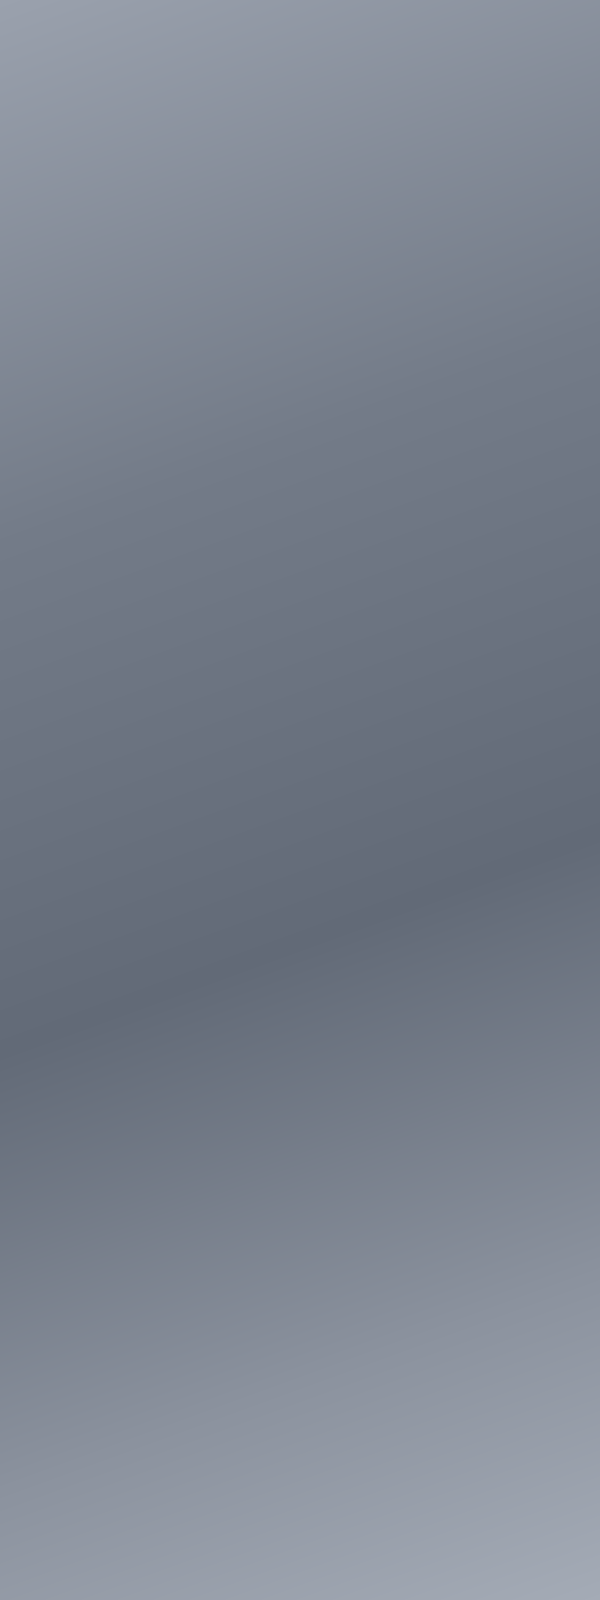
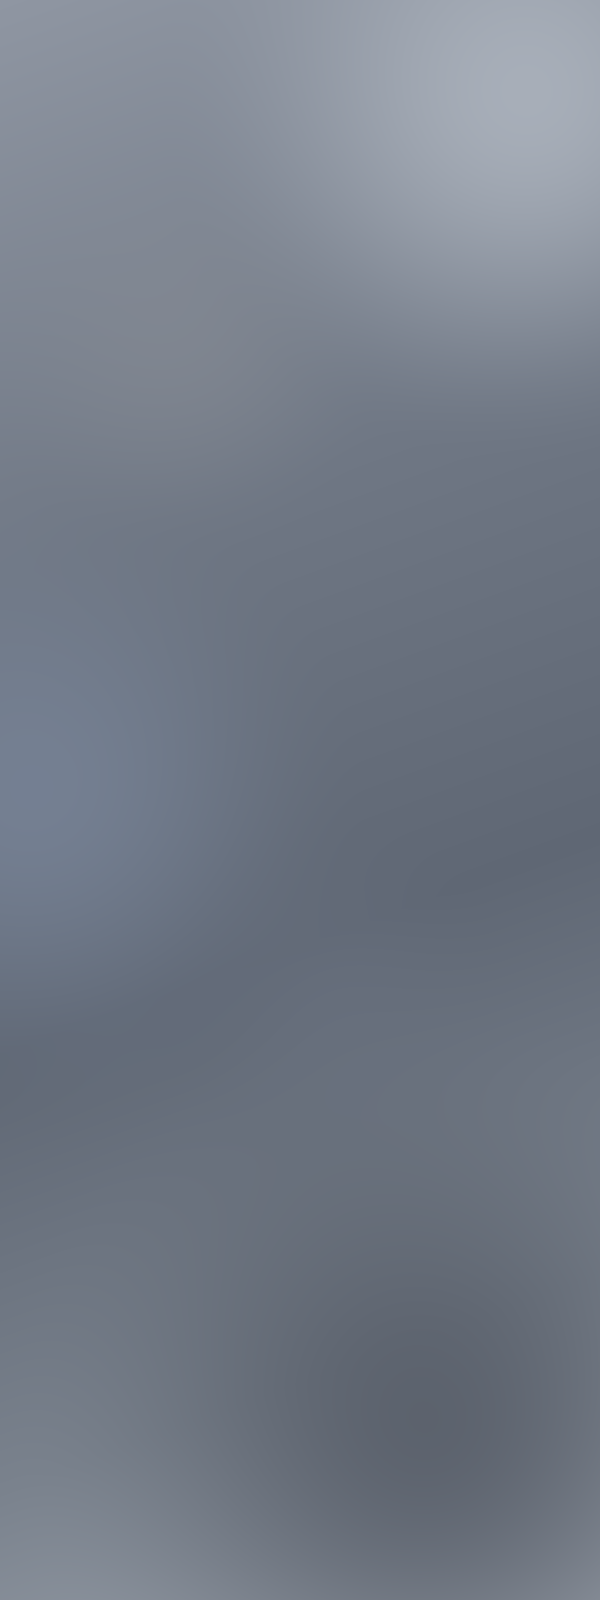
Graphite backdrop as a layered mesh gradient (linear base + radial light/shadow pools)

Changed region(s): [[0.21, 0.75, 1.0, 1.0], [0.69, 0.0, 1.0, 0.1875]]

diff --git a/make_gradient.py b/make_gradient.py
@@ -3,6 +3,7 @@
 images because Outlook and Gmail Android do not render CSS gradients.
 
   python3 make_gradient.py assets/launch-coral.png 600 1600 160 "#fdbb8f 0%,#f86726 30%,#eabf7c 58%,#ffe2d8 82%,#d5ddda 100%"
+  python3 make_gradient.py mesh assets/launch-graphite.png 600 1600 160 "<stops>" "x,y,r,#hex,strength;..."
 """
 import math, struct, sys, zlib
 
@@ -48,7 +49,52 @@ def gradient_png(path, width, height, angle_deg, spec):
         fh.write(png_bytes(width, height, rows))
 
 
+def parse_hex(col):
+    c = col.lstrip("#")
+    return tuple(int(c[i:i + 2], 16) for i in (0, 2, 4))
+
+
+def mesh_png(path, width, height, angle_deg, spec, blobs):
+    """Linear base gradient plus soft radial pools of colour (a 'mesh' look).
+    blobs: "x,y,r,#hex,strength;..." with x/y/r relative to the width (y relative to the height),
+    strength 0..1; each pool fades with a smoothstep falloff."""
+    stops = parse_stops(spec)
+    a = math.radians(angle_deg)
+    dx, dy = math.sin(a), -math.cos(a)
+    length = abs(width * math.sin(a)) + abs(height * math.cos(a))
+    cx, cy = width / 2, height / 2
+    pools = []
+    for b in blobs.split(";"):
+        bx, by, br, col, st = b.split(",")
+        pools.append((float(bx) * width, float(by) * height, float(br) * width, parse_hex(col), float(st)))
+    rows = []
+    for y in range(height):
+        row = bytearray()
+        for x in range(width):
+            t = min(1.0, max(0.0, ((x - cx) * dx + (y - cy) * dy) / length + 0.5))
+            for (p0, c0), (p1, c1) in zip(stops, stops[1:]):
+                if t <= p1:
+                    f = 0 if p1 == p0 else (t - p0) / (p1 - p0)
+                    r, g, bl = (c0[i] + (c1[i] - c0[i]) * f for i in range(3))
+                    break
+            else:
+                r, g, bl = stops[-1][1]
+            for px, py, pr, pc, ps in pools:
+                d = math.hypot(x - px, y - py) / pr
+                if d < 1.0:
+                    w_ = (1 - d) * (1 - d) * (3 - 2 * (1 - d)) * ps      # smoothstep falloff
+                    r, g, bl = r + (pc[0] - r) * w_, g + (pc[1] - g) * w_, bl + (pc[2] - bl) * w_
+            row += bytes((round(r), round(g), round(bl)))
+        rows.append(row)
+    with open(path, "wb") as fh:
+        fh.write(png_bytes(width, height, rows))
+
+
 if __name__ == "__main__":
-    out, w, h, ang, spec = sys.argv[1], int(sys.argv[2]), int(sys.argv[3]), float(sys.argv[4]), sys.argv[5]
-    gradient_png(out, w, h, ang, spec)
+    if sys.argv[1] == "mesh":
+        out, w, h, ang, spec, blobs = sys.argv[2], int(sys.argv[3]), int(sys.argv[4]), float(sys.argv[5]), sys.argv[6], sys.argv[7]
+        mesh_png(out, w, h, ang, spec, blobs)
+    else:
+        out, w, h, ang, spec = sys.argv[1], int(sys.argv[2]), int(sys.argv[3]), float(sys.argv[4]), sys.argv[5]
+        gradient_png(out, w, h, ang, spec)
     print(out)
